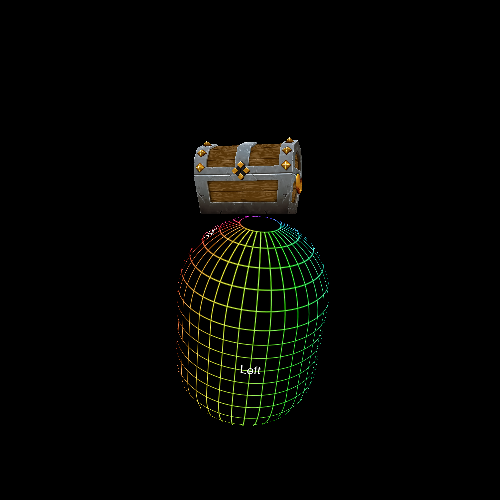
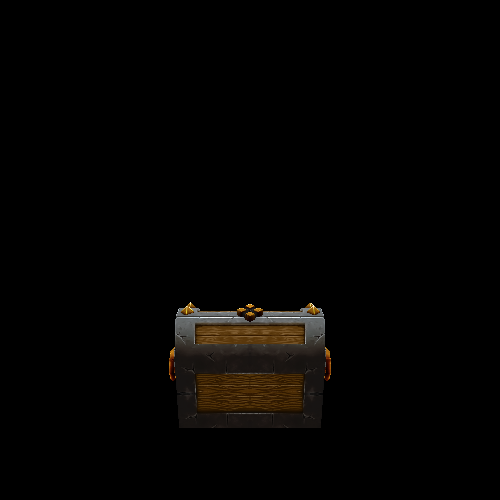
Tried to debug

Changed region(s): [[0.33, 0.27, 0.66, 0.87]]

diff --git a/warping.py b/warping.py
@@ -27,9 +27,9 @@ def img2obj():
 
 
 def img2img():
-    global img2img_map, img2obj_map
+    global img2img_map
 
-    depths = np.ones((width, height)) * 0.95
+    depths = np.ones((width, height)) * 0.99
     prevx = -np.ones((width, height), dtype=int)
     prevy = -np.ones((width, height), dtype=int)
     img2img_map = -np.ones((width, height, 3))
@@ -39,11 +39,13 @@ def img2img():
             pixel = gluProject(*img2obj_map[i][j], modelview, projection, viewport)
             if pixel[2] < depths[i][j]:
                 img2img_map[i][j] = pixel
+                print(i, j, pixel)
                 x, y, z = int(pixel[0]), int(pixel[1]), pixel[2]
                 if prevx[x][y] != -1:
-                    img2img_map[prevx[x][y]][prevy[x][y]] = np.array([-1., -1., -1.])
+                    # img2img_map[prevx[x][y]][prevy[x][y]] = np.array([-1., -1., -1.])
+                    print(prevx[x][y], prevy[x][y])
                 prevx[x][y], prevy[x][y] = i, j
-                depths[x][y] = z
+                # depths[x][y] = z
 
 
 def warp():
@@ -87,7 +89,7 @@ def display():
     glLoadIdentity()
 
     glPushMatrix()
-    glTranslate(0, -1, -6)
+    glTranslate(0, -1, -4)
     glRotate(-60, 1, 0, 0)
     glCallList(obj.gl_list)
 
@@ -106,9 +108,9 @@ def display():
     glLoadIdentity()
 
     glPushMatrix()
-    glTranslate(0, -1, -6)
-    glRotate(-65, 1, 0, 0)
-    glRotate(5, 0, 1, 0)
+    glTranslate(0, -1, -4)
+    glRotate(-70, 1, 0, 0)
+    # glRotate(5, 0, 1, 0)
     glCallList(obj.gl_list)
 
     projection = glGetDoublev(GL_PROJECTION_MATRIX)

diff --git a/multi_object.py b/multi_object.py
@@ -42,6 +42,7 @@ def img2img():
             pixel = gluProject(*img2obj_map[i][j], modelview, projection, viewport)
             if pixel[2] < depths[i][j]:
                 img2img_map[i][j] = pixel
+                print(i, j, pixel)
                 x, y, z = int(pixel[0]), int(pixel[1]), pixel[2]
                 if prevx[x][y] != -1:
                     img2img_map[prevx[x][y]][prevy[x][y]] = np.array([-1., -1., -1.])
